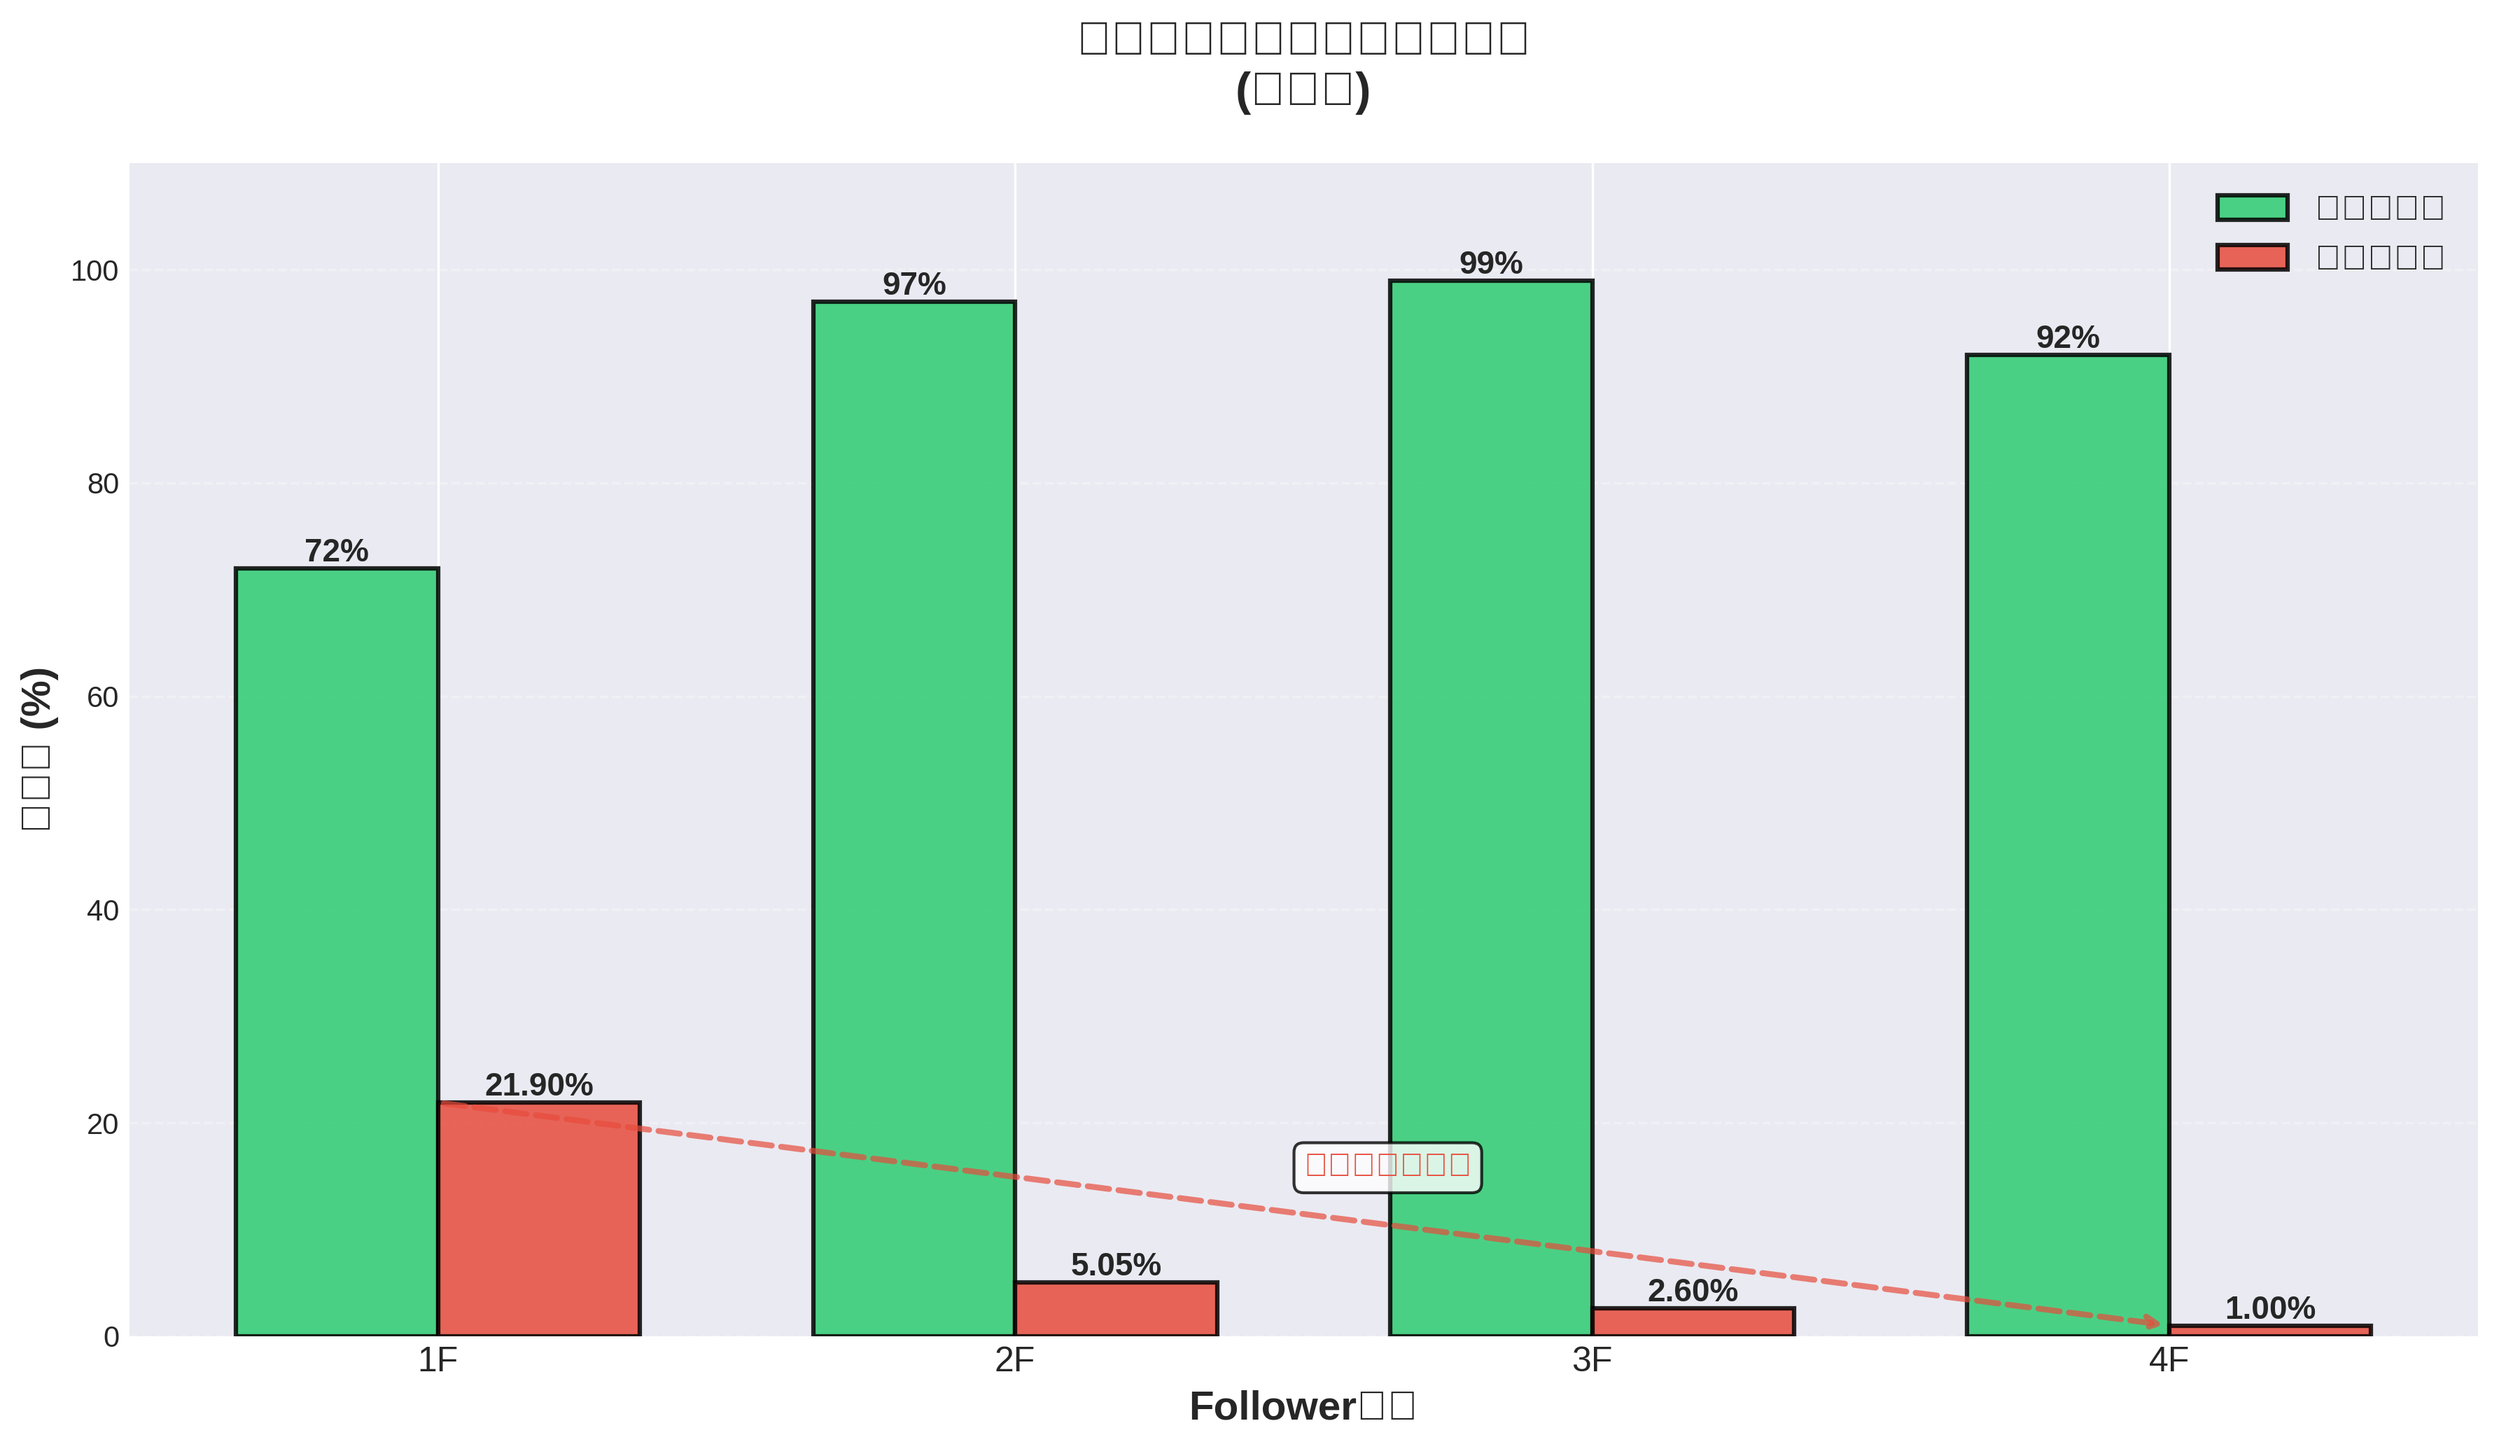
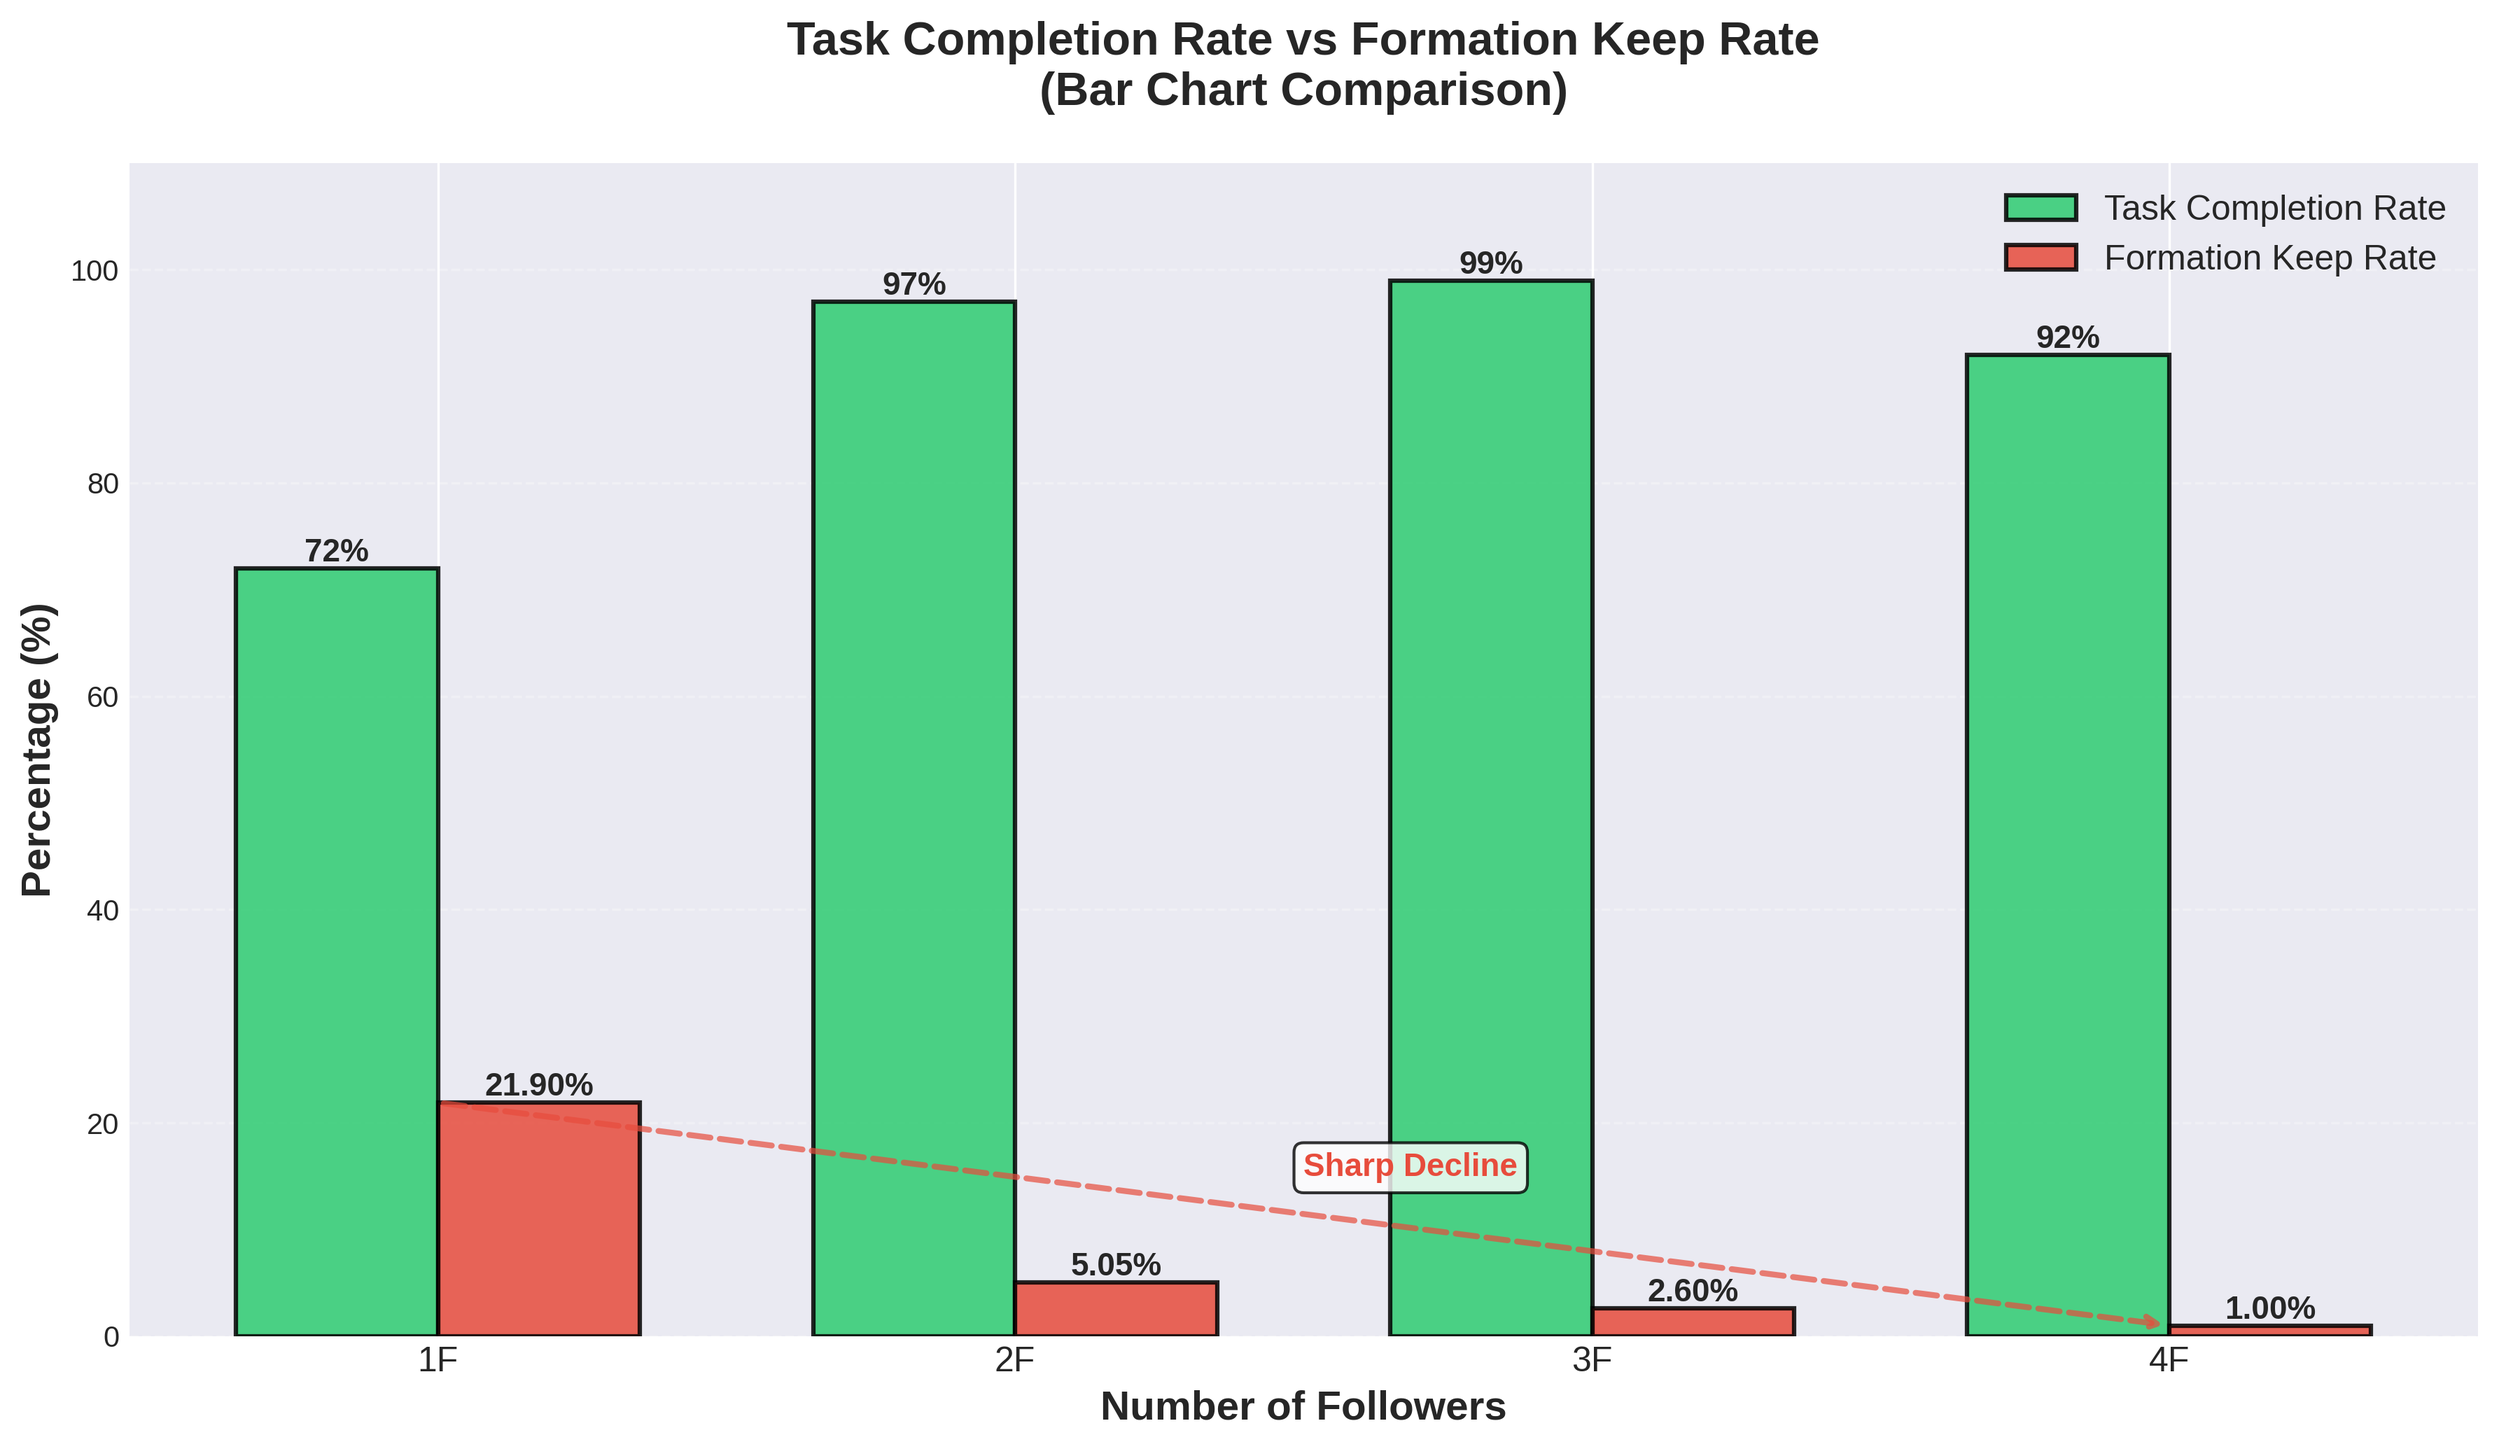
fix: 修复图表中文字符显示问题
将所有标签改为英文，提升图表专业性和兼容性

diff --git a/visualize_formation_rate.py b/visualize_formation_rate.py
@@ -1,17 +1,18 @@
 #!/usr/bin/env python3
 # -*- coding: utf-8 -*-
 """
-任务完成率与编队保持率可视化
-展示1-4 Follower配置下的性能对比
+Task Completion Rate vs Formation Keep Rate Visualization
+Performance comparison for 1-4 Follower configurations
 """
 
 import matplotlib.pyplot as plt
 import numpy as np
 from matplotlib import rcParams
 
-# 设置中文字体
-rcParams['font.sans-serif'] = ['SimHei', 'DejaVu Sans', 'Arial Unicode MS']
-rcParams['axes.unicode_minus'] = False  # 解决负号显示问题
+# Set font for better display
+rcParams['font.family'] = 'sans-serif'
+rcParams['font.sans-serif'] = ['DejaVu Sans', 'Arial']
+rcParams['axes.unicode_minus'] = False
 
 # 数据（来自测试结果）
 follower_counts = [1, 2, 3, 4]
@@ -24,20 +25,20 @@ fig, ax1 = plt.subplots(figsize=(12, 7), dpi=300)
 # 设置样式
 plt.style.use('seaborn-v0_8-darkgrid')
 
-# 绘制任务完成率（左Y轴）
-color1 = '#2ecc71'  # 绿色
-ax1.set_xlabel('Follower数量', fontsize=14, fontweight='bold')
-ax1.set_ylabel('任务完成率 (%)', color=color1, fontsize=14, fontweight='bold')
+# Plot Task Completion Rate (Left Y-axis)
+color1 = '#2ecc71'  # Green
+ax1.set_xlabel('Number of Followers', fontsize=14, fontweight='bold')
+ax1.set_ylabel('Task Completion Rate (%)', color=color1, fontsize=14, fontweight='bold')
 line1 = ax1.plot(follower_counts, task_completion_rates, 
                  color=color1, marker='o', markersize=12, 
-                 linewidth=3, label='任务完成率', 
+                 linewidth=3, label='Task Completion Rate', 
                  markeredgewidth=2, markeredgecolor='white')
 ax1.tick_params(axis='y', labelcolor=color1, labelsize=12)
 ax1.tick_params(axis='x', labelsize=12)
 ax1.set_ylim([0, 105])
 ax1.grid(True, alpha=0.3)
 
-# 在数据点上标注数值
+# Add value annotations on data points
 for i, (x, y) in enumerate(zip(follower_counts, task_completion_rates)):
     ax1.annotate(f'{y}%', 
                 xy=(x, y), 
@@ -52,18 +53,18 @@ for i, (x, y) in enumerate(zip(follower_counts, task_completion_rates)):
                          edgecolor=color1, 
                          alpha=0.8))
 
-# 创建右侧Y轴用于编队保持率
+# Create right Y-axis for Formation Keep Rate
 ax2 = ax1.twinx()
-color2 = '#e74c3c'  # 红色
-ax2.set_ylabel('编队保持率 (%)', color=color2, fontsize=14, fontweight='bold')
+color2 = '#e74c3c'  # Red
+ax2.set_ylabel('Formation Keep Rate (%)', color=color2, fontsize=14, fontweight='bold')
 line2 = ax2.plot(follower_counts, formation_keep_rates, 
                  color=color2, marker='s', markersize=12, 
-                 linewidth=3, label='编队保持率',
+                 linewidth=3, label='Formation Keep Rate',
                  markeredgewidth=2, markeredgecolor='white')
 ax2.tick_params(axis='y', labelcolor=color2, labelsize=12)
 ax2.set_ylim([0, 25])
 
-# 在数据点上标注数值
+# Add value annotations on data points
 for i, (x, y) in enumerate(zip(follower_counts, formation_keep_rates)):
     ax2.annotate(f'{y}%', 
                 xy=(x, y), 
@@ -78,11 +79,11 @@ for i, (x, y) in enumerate(zip(follower_counts, formation_keep_rates)):
                          edgecolor=color2, 
                          alpha=0.8))
 
-# 添加标题
-plt.title('任务完成率 vs 编队保持率\n(1-4 Follower配置对比)', 
+# Add title
+plt.title('Task Completion Rate vs Formation Keep Rate\n(1-4 Follower Configuration Comparison)', 
           fontsize=16, fontweight='bold', pad=20)
 
-# 合并图例
+# Merge legends
 lines1, labels1 = ax1.get_legend_handles_labels()
 lines2, labels2 = ax2.get_legend_handles_labels()
 ax1.legend(lines1 + lines2, labels1 + labels2, 
@@ -90,16 +91,16 @@ ax1.legend(lines1 + lines2, labels1 + labels2,
           framealpha=0.95, edgecolor='black', 
           fancybox=True, shadow=True)
 
-# 添加网格
+# Add grid
 ax1.set_axisbelow(True)
 
-# 设置X轴刻度
+# Set X-axis ticks
 ax1.set_xticks(follower_counts)
 ax1.set_xticklabels([f'{n}F' for n in follower_counts])
 
-# 添加性能矛盾的注释
+# Add performance contradiction annotation
 ax1.text(0.02, 0.98, 
-         '⚠ 性能矛盾：\n任务完成率高达92%\n但编队率仅有1%',
+         'Performance Paradox:\nTask completion: 92%\nFormation rate: only 1%',
          transform=ax1.transAxes,
          fontsize=11,
          verticalalignment='top',
@@ -107,19 +108,19 @@ ax1.text(0.02, 0.98,
          color='#e74c3c',
          fontweight='bold')
 
-# 调整布局
+# Adjust layout
 plt.tight_layout()
 
-# 保存图表
+# Save figure
 output_path = 'formation_rate_comparison.png'
 plt.savefig(output_path, dpi=300, bbox_inches='tight', facecolor='white')
-print(f"✅ 图表已保存至: {output_path}")
+print(f"✅ Chart saved to: {output_path}")
 
-# 显示图表
+# Display figure
 plt.show()
 
 # ============================================
-# 绘制第二个图表：双指标柱状图对比
+# Second Chart: Bar Chart Comparison
 # ============================================
 
 fig2, ax = plt.subplots(figsize=(12, 7), dpi=300)
@@ -127,15 +128,15 @@ fig2, ax = plt.subplots(figsize=(12, 7), dpi=300)
 x = np.arange(len(follower_counts))
 width = 0.35
 
-# 绘制柱状图
+# Draw bar chart
 bars1 = ax.bar(x - width/2, task_completion_rates, width, 
-               label='任务完成率', color='#2ecc71', 
+               label='Task Completion Rate', color='#2ecc71', 
                edgecolor='black', linewidth=1.5, alpha=0.85)
 bars2 = ax.bar(x + width/2, formation_keep_rates, width, 
-               label='编队保持率', color='#e74c3c', 
+               label='Formation Keep Rate', color='#e74c3c', 
                edgecolor='black', linewidth=1.5, alpha=0.85)
 
-# 添加数值标签
+# Add value labels
 for bar in bars1:
     height = bar.get_height()
     ax.text(bar.get_x() + bar.get_width()/2., height,
@@ -148,45 +149,45 @@ for bar in bars2:
             f'{height:.2f}%',
             ha='center', va='bottom', fontsize=11, fontweight='bold')
 
-# 设置标签和标题
-ax.set_xlabel('Follower数量', fontsize=14, fontweight='bold')
-ax.set_ylabel('百分比 (%)', fontsize=14, fontweight='bold')
-ax.set_title('任务完成率与编队保持率对比\n(柱状图)', 
+# Set labels and title
+ax.set_xlabel('Number of Followers', fontsize=14, fontweight='bold')
+ax.set_ylabel('Percentage (%)', fontsize=14, fontweight='bold')
+ax.set_title('Task Completion Rate vs Formation Keep Rate\n(Bar Chart Comparison)', 
             fontsize=16, fontweight='bold', pad=20)
 ax.set_xticks(x)
 ax.set_xticklabels([f'{n}F' for n in follower_counts], fontsize=12)
 ax.legend(loc='upper right', fontsize=12, framealpha=0.95, 
          edgecolor='black', fancybox=True, shadow=True)
 
-# 添加网格
+# Add grid
 ax.grid(True, axis='y', alpha=0.3, linestyle='--')
 ax.set_axisbelow(True)
 
-# 设置Y轴范围
+# Set Y-axis range
 ax.set_ylim([0, 110])
 
-# 添加趋势线注释
+# Add trend line annotation
 ax.annotate('', xy=(3, 1), xytext=(0, 21.9),
             arrowprops=dict(arrowstyle='->', color='#e74c3c', 
                           lw=2, linestyle='--', alpha=0.7))
-ax.text(1.5, 15, '编队率急剧下降', fontsize=11, 
+ax.text(1.5, 15, 'Sharp Decline', fontsize=11, 
        color='#e74c3c', fontweight='bold',
        bbox=dict(boxstyle='round', facecolor='white', alpha=0.8))
 
-# 调整布局
+# Adjust layout
 plt.tight_layout()
 
-# 保存第二个图表
+# Save second chart
 output_path2 = 'formation_rate_bar_comparison.png'
 plt.savefig(output_path2, dpi=300, bbox_inches='tight', facecolor='white')
-print(f"✅ 图表已保存至: {output_path2}")
+print(f"✅ Chart saved to: {output_path2}")
 
-# 显示图表
+# Display figure
 plt.show()
 
 print("\n" + "="*60)
-print("📊 可视化完成！生成了两张图表：")
-print(f"   1. {output_path} - 双Y轴折线图")
-print(f"   2. {output_path2} - 柱状图对比")
+print("📊 Visualization completed! Generated two charts:")
+print(f"   1. {output_path} - Dual Y-axis Line Chart")
+print(f"   2. {output_path2} - Bar Chart Comparison")
 print("="*60)
 
